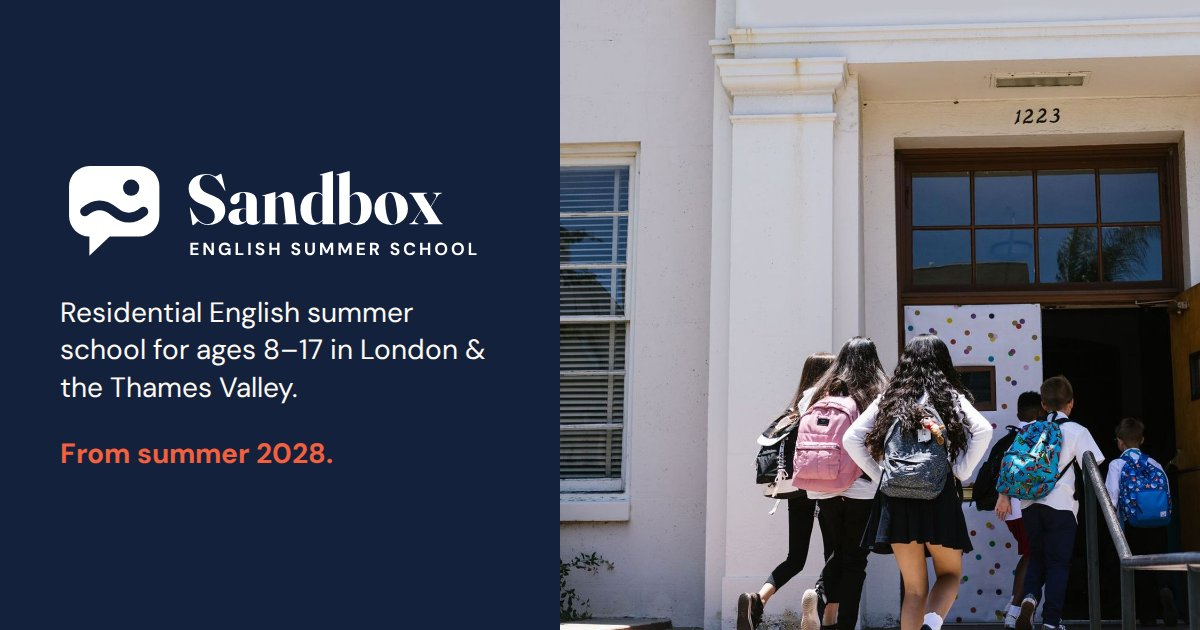
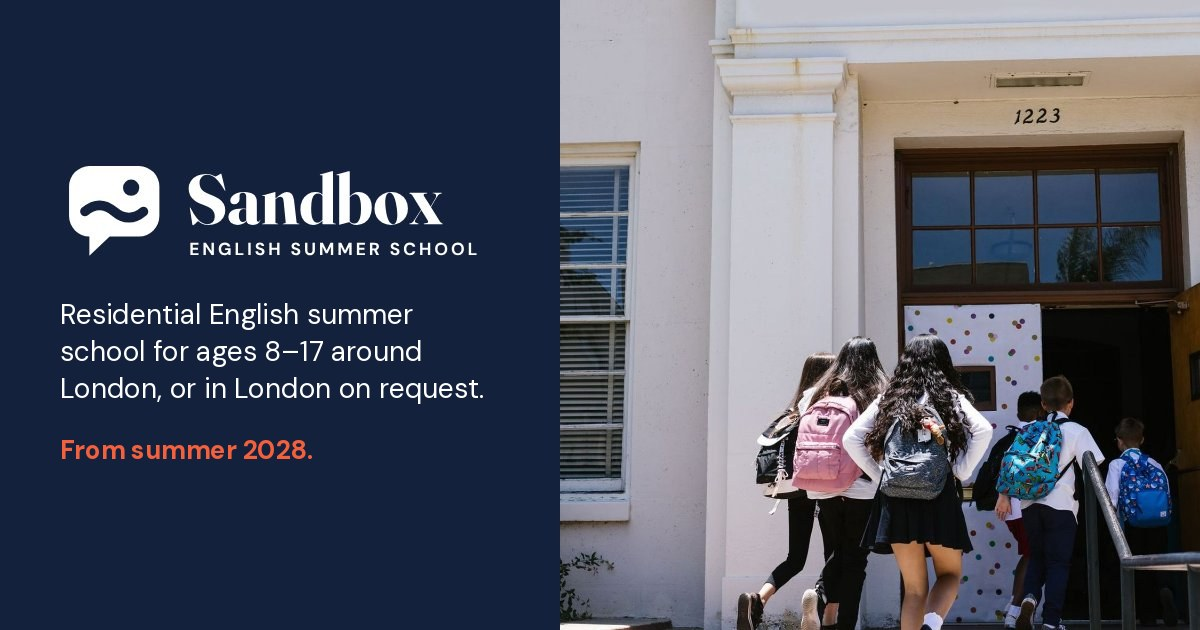
Offer the area around London, with London on request
Replace "Thames Valley" with the area around London, and present London as
an option families and agents can ask for. Updates the Locations section,
FAQs, agents page, consultation form (?area=around-london|london), footer,
JSON-LD, share image and the countryside photo slug. Also tightens wording
after review: DSL sentence, 1:10 ratio phrasing on the agents page.

Claude-Session: https://claude.ai/code/session_019FbioZXc15nftcTHLLKFvK

Changed region(s): [[0.0308, 0.4825, 0.4008, 0.573], [0.0308, 0.6937, 0.2775, 0.754], [0.0308, 0.6032, 0.4008, 0.6333]]

diff --git a/index.html b/index.html
@@ -4,7 +4,7 @@
   <meta charset="utf-8">
   <meta name="viewport" content="width=device-width, initial-scale=1">
   <title>Residential English Summer School, Ages 8–17 | Sandbox English</title>
-  <meta name="description" content="Residential English summer school for ages 8–17 in London and the Thames Valley, from summer 2028. 15 hours of English and two tailored excursions a week.">
+  <meta name="description" content="Residential English summer school for ages 8–17 around London, or in London on request, from summer 2028. 15 hours of English and two tailored excursions a week.">
   <meta name="theme-color" content="#14213d">
   <link rel="canonical" href="https://sandboxenglish.co.uk/">
   <meta property="og:type" content="website">
@@ -12,7 +12,7 @@
   <meta property="og:locale" content="en_GB">
   <meta property="og:url" content="https://sandboxenglish.co.uk/">
   <meta property="og:title" content="Residential English Summer School, Ages 8–17 | Sandbox English">
-  <meta property="og:description" content="Residential English summer school for ages 8–17 in London and the Thames Valley, from summer 2028. 15 hours of English and two tailored excursions a week.">
+  <meta property="og:description" content="Residential English summer school for ages 8–17 around London, or in London on request, from summer 2028. 15 hours of English and two tailored excursions a week.">
   <meta property="og:image" content="https://sandboxenglish.co.uk/assets/img/share.jpg">
   <meta property="og:image:width" content="1200">
   <meta property="og:image:height" content="630">
@@ -22,7 +22,7 @@
   <link rel="preload" href="assets/fonts/fraunces-roman-latin.woff2" as="font" type="font/woff2" crossorigin>
   <link rel="stylesheet" href="assets/css/styles.css">
   <script src="assets/js/main.js" defer></script>
-  <script type="application/ld+json">{"@context": "https://schema.org", "@type": "EducationalOrganization", "name": "Sandbox English", "alternateName": "Sandbox English Summer School", "url": "https://sandboxenglish.co.uk/", "email": "hello@sandboxenglish.co.uk", "logo": "https://sandboxenglish.co.uk/assets/img/favicon.svg", "image": "https://sandboxenglish.co.uk/assets/img/share.jpg", "description": "Residential English summer school for ages 8–17 in London and the Thames Valley, from summer 2028.", "founder": {"@type": "Person", "name": "Alexander Burns"}, "sameAs": ["https://www.instagram.com/sandboxenglish", "https://www.facebook.com/sandboxenglish", "https://www.youtube.com/@sandboxenglish"]}</script>
+  <script type="application/ld+json">{"@context": "https://schema.org", "@type": "EducationalOrganization", "name": "Sandbox English", "alternateName": "Sandbox English Summer School", "url": "https://sandboxenglish.co.uk/", "email": "hello@sandboxenglish.co.uk", "logo": "https://sandboxenglish.co.uk/assets/img/favicon.svg", "image": "https://sandboxenglish.co.uk/assets/img/share.jpg", "description": "Residential English summer school for ages 8–17 around London, or in London on request, from summer 2028.", "founder": {"@type": "Person", "name": "Alexander Burns"}, "sameAs": ["https://www.instagram.com/sandboxenglish", "https://www.facebook.com/sandboxenglish", "https://www.youtube.com/@sandboxenglish"]}</script>
 </head>
 <body>
 <a class="skip-link" href="#main">Skip to content</a>
@@ -53,7 +53,7 @@
 <section class="hero">
   <div class="container hero-grid">
     <div>
-      <p class="eyebrow">English Summer School · London &amp; Thames Valley · Ages 8–17</p>
+      <p class="eyebrow">English Summer School · Around London · Ages 8–17</p>
       <h1>Summer, <em>spoken</em> fluently.</h1>
       <p class="lead">Sandbox English Summer School opens in summer 2028. We offer young people aged 8–17 a residential English programme with focused lessons, attentive care and memorable excursions, at a reasonable price.</p>
       <div class="btn-row">
@@ -299,35 +299,35 @@
   <div class="container">
     <div class="section-head reveal">
       <p class="eyebrow">Locations</p>
-      <h2>London and the Thames Valley</h2>
-      <p class="lead">We are choosing residential venues in London and the Thames Valley for summer 2028, and will confirm them ahead of the first summer. Both regions put some of the UK's best-known sights within easy reach.</p>
+      <h2>Around London or in London: you choose</h2>
+      <p class="lead">Choose the area around London, with its countryside, historic towns and the capital's best-known sights within reach, or ask for a location in London itself. Tell us what suits your students at your consultation and we will plan the summer around it.</p>
     </div>
     <div class="grid grid-2">
+      <a class="card card--hover campus-card reveal" href="consultation.html?area=around-london">
+        <div class="campus-card__art"><figure class="photo photo--wide"><img src="assets/img/photos/location-grounds.jpg" srcset="assets/img/photos/location-grounds-800.jpg 800w, assets/img/photos/location-grounds.jpg 1600w" sizes="(min-width: 900px) 50vw, 100vw" width="1600" height="1000" alt="A large tree on a sunny green lawn" loading="lazy" decoding="async"></figure></div>
+        <div class="campus-card__body">
+          <span class="tag tag--sea">Around London</span>
+          <h3>The area around London</h3>
+          <p class="muted">Green countryside and historic towns, with London's landmarks within reach for excursions.</p>
+          <span class="link-arrow">Ask about the area around London <svg viewBox="0 0 24 24" fill="none" stroke="currentColor" stroke-width="2" stroke-linecap="round" stroke-linejoin="round" aria-hidden="true"><path d="M5 12h14M13 6l6 6-6 6"/></svg></span>
+        </div>
+      </a>
       <a class="card card--hover campus-card reveal" href="consultation.html?area=london">
         <div class="campus-card__art"><figure class="photo photo--wide"><img src="assets/img/photos/location-campus.jpg" srcset="assets/img/photos/location-campus-800.jpg 800w, assets/img/photos/location-campus.jpg 1600w" sizes="(min-width: 900px) 50vw, 100vw" width="1600" height="1000" alt="A modern glass building among trees" loading="lazy" decoding="async"></figure></div>
         <div class="campus-card__body">
-          <span class="tag tag--sky">London</span>
+          <span class="tag tag--sky">On request</span>
           <h3>London</h3>
-          <p class="muted">The UK's capital, home to world-famous landmarks, museums, parks and theatres.</p>
+          <p class="muted">Prefer the capital? Ask for a location in London, home to world-famous landmarks, museums, parks and theatres.</p>
           <span class="link-arrow">Ask about London <svg viewBox="0 0 24 24" fill="none" stroke="currentColor" stroke-width="2" stroke-linecap="round" stroke-linejoin="round" aria-hidden="true"><path d="M5 12h14M13 6l6 6-6 6"/></svg></span>
-        </div>
-      </a>
-      <a class="card card--hover campus-card reveal" href="consultation.html?area=thames-valley">
-        <div class="campus-card__art"><figure class="photo photo--wide"><img src="assets/img/photos/location-grounds.jpg" srcset="assets/img/photos/location-grounds-800.jpg 800w, assets/img/photos/location-grounds.jpg 1600w" sizes="(min-width: 900px) 50vw, 100vw" width="1600" height="1000" alt="A large tree on a sunny green lawn" loading="lazy" decoding="async"></figure></div>
-        <div class="campus-card__body">
-          <span class="tag tag--sea">Thames Valley</span>
-          <h3>The Thames Valley</h3>
-          <p class="muted">Green countryside and historic riverside towns west of London, including Windsor, with Oxford close by.</p>
-          <span class="link-arrow">Ask about the Thames Valley <svg viewBox="0 0 24 24" fill="none" stroke="currentColor" stroke-width="2" stroke-linecap="round" stroke-linejoin="round" aria-hidden="true"><path d="M5 12h14M13 6l6 6-6 6"/></svg></span>
         </div>
       </a>
     </div>
     <div class="photo-grid photo-grid--3 reveal mt-lg">
-      <figure class="photo"><img src="assets/img/photos/location-london.jpg" srcset="assets/img/photos/location-london-800.jpg 800w, assets/img/photos/location-london.jpg 1500w" sizes="(min-width: 900px) 25vw, (min-width: 600px) 50vw, 100vw" width="1500" height="1125" alt="London and the River Thames from above, at dawn" loading="lazy" decoding="async"><figcaption>London</figcaption></figure>
-      <figure class="photo"><img src="assets/img/photos/location-thames-valley.jpg" srcset="assets/img/photos/location-thames-valley-800.jpg 800w, assets/img/photos/location-thames-valley.jpg 1600w" sizes="(min-width: 900px) 25vw, (min-width: 600px) 50vw, 100vw" width="1600" height="1200" alt="A riverside meadow under a summer sky" loading="lazy" decoding="async"><figcaption>Thames Valley countryside</figcaption></figure>
+      <figure class="photo"><img src="assets/img/photos/location-countryside.jpg" srcset="assets/img/photos/location-countryside-800.jpg 800w, assets/img/photos/location-countryside.jpg 1600w" sizes="(min-width: 900px) 25vw, (min-width: 600px) 50vw, 100vw" width="1600" height="1200" alt="A riverside meadow under a summer sky" loading="lazy" decoding="async"><figcaption>Countryside</figcaption></figure>
       <figure class="photo"><img src="assets/img/photos/location-windsor.jpg" srcset="assets/img/photos/location-windsor-800.jpg 800w, assets/img/photos/location-windsor.jpg 1600w" sizes="(min-width: 900px) 25vw, (min-width: 600px) 50vw, 100vw" width="1600" height="1200" alt="The Round Tower at Windsor Castle" loading="lazy" decoding="async"><figcaption>Windsor</figcaption></figure>
+      <figure class="photo"><img src="assets/img/photos/location-london.jpg" srcset="assets/img/photos/location-london-800.jpg 800w, assets/img/photos/location-london.jpg 1500w" sizes="(min-width: 900px) 25vw, (min-width: 600px) 50vw, 100vw" width="1500" height="1125" alt="London and the River Thames from above, at dawn" loading="lazy" decoding="async"><figcaption>London</figcaption></figure>
     </div>
-    <p class="mt-lg muted">We will only choose venues with secure residential accommodation, proper classrooms and space for sport and activities. Airport meet-and-greet and transfers can be arranged.</p>
+    <p class="mt-lg muted">Wherever you choose, we will only use venues with secure residential accommodation, proper classrooms and space for sport and activities. Airport meet-and-greet and transfers can be arranged.</p>
   </div>
 </section>
 
@@ -339,7 +339,7 @@
       <p class="lead">Alexander has spent several summers delivering English summer programmes, with one aim: to make each one as enjoyable and rewarding as possible for every student.</p>
       <p>He founded Sandbox English to offer a better experience at a reasonable price: small classes, engaging activities, great excursions and attentive care. As a small, founder-led school, we avoid the overheads of a large organisation and put our resources where students notice them.</p>
       <p>Parents, agents and group leaders deal with Alexander directly, from the first consultation to the final day of the course.</p>
-      <p class="mb-0">Alexander is also our Designated Safeguarding Lead, so the person you speak to at your consultation is the person responsible for your child's welfare.</p>
+      <p class="mb-0">Alexander is also our Designated Safeguarding Lead, so the person you speak to at your consultation is the person who leads safeguarding across the school.</p>
     </div>
     <div class="founder-card reveal">
       <figure class="photo photo--portrait photo--monogram"><span class="monogram" aria-hidden="true">AB</span><figcaption><strong>Alexander Burns</strong> Founder and Designated Safeguarding Lead</figcaption></figure>
@@ -388,7 +388,7 @@
       </details>
       <details>
         <summary>Where will the course take place?</summary>
-        <div class="faq-body"><p>At residential venues in London and the Thames Valley. We will confirm venues ahead of summer 2028.</p></div>
+        <div class="faq-body"><p>In the area around London, or in London itself on request. Tell us your preference at your consultation, and we will confirm your venue ahead of summer 2028.</p></div>
       </details>
       <details>
         <summary>Can you arrange airport transfers?</summary>
@@ -426,7 +426,7 @@
           <svg class="brand-mark" viewBox="0 0 48 48" aria-hidden="true"><path fill="#14213d" d="M13 4h22a9 9 0 0 1 9 9v13a9 9 0 0 1-9 9H22l-9 8.5V35a9 9 0 0 1-9-9V13a9 9 0 0 1 9-9z"/><path fill="none" stroke="#f2603d" stroke-width="4.2" stroke-linecap="round" d="M11 24c4.3-3.6 8.7-3.6 13 0s8.7 3.6 13 0"/><circle cx="31.5" cy="13.5" r="3.6" fill="#f2603d"/></svg>
       <span class="brand-name">Sandbox<small>English Summer School</small></span>
         </a>
-        <p class="footer-note">A residential English summer school for young people aged 8–17 in London and the Thames Valley. Launching summer 2028.</p>
+        <p class="footer-note">A residential English summer school around London (or in London on request) for young people aged 8–17. Launching summer 2028.</p>
         <p class="footer-note"><a href="mailto:hello@sandboxenglish.co.uk">hello@sandboxenglish.co.uk</a><br>@sandboxenglish</p>
         <div class="socials">
           <a href="https://www.instagram.com/sandboxenglish" rel="noopener" aria-label="Sandbox English on Instagram"><svg viewBox="0 0 24 24" fill="none" stroke="currentColor" stroke-width="2" stroke-linecap="round" stroke-linejoin="round" aria-hidden="true"><rect x="2" y="2" width="20" height="20" rx="5"/><circle cx="12" cy="12" r="4"/><path d="M17.5 6.5h.01"/></svg></a><a href="https://www.facebook.com/sandboxenglish" rel="noopener" aria-label="Sandbox English on Facebook"><svg viewBox="0 0 24 24" fill="none" stroke="currentColor" stroke-width="2" stroke-linecap="round" stroke-linejoin="round" aria-hidden="true"><path d="M18 2h-3a5 5 0 0 0-5 5v3H7v4h3v8h4v-8h3l1-4h-4V7a1 1 0 0 1 1-1h3z"/></svg></a><a href="https://www.youtube.com/@sandboxenglish" rel="noopener" aria-label="Sandbox English on YouTube"><svg viewBox="0 0 24 24" fill="none" stroke="currentColor" stroke-width="2" stroke-linecap="round" stroke-linejoin="round" aria-hidden="true"><path d="M2.5 17a24 24 0 0 1 0-10 2 2 0 0 1 1.4-1.4 49.6 49.6 0 0 1 16.2 0A2 2 0 0 1 21.5 7a24 24 0 0 1 0 10 2 2 0 0 1-1.4 1.4 49.6 49.6 0 0 1-16.2 0A2 2 0 0 1 2.5 17"/><path d="m10 15 5-3-5-3z"/></svg></a>

diff --git a/src/pages/index.html b/src/pages/index.html
@@ -1,10 +1,10 @@
 title: Residential English Summer School, Ages 8–17 | Sandbox English
-description: Residential English summer school for ages 8–17 in London and the Thames Valley, from summer 2028. 15 hours of English and two tailored excursions a week.
+description: Residential English summer school for ages 8–17 around London, or in London on request, from summer 2028. 15 hours of English and two tailored excursions a week.
 ---
 <section class="hero">
   <div class="container hero-grid">
     <div>
-      <p class="eyebrow">English Summer School · London &amp; Thames Valley · Ages 8–17</p>
+      <p class="eyebrow">English Summer School · Around London · Ages 8–17</p>
       <h1>Summer, <em>spoken</em> fluently.</h1>
       <p class="lead">Sandbox English Summer School opens in summer 2028. We offer young people aged 8–17 a residential English programme with focused lessons, attentive care and memorable excursions, at a reasonable price.</p>
       <div class="btn-row">
@@ -199,35 +199,35 @@ description: Residential English summer school for ages 8–17 in London and the
   <div class="container">
     <div class="section-head reveal">
       <p class="eyebrow">Locations</p>
-      <h2>London and the Thames Valley</h2>
-      <p class="lead">We are choosing residential venues in London and the Thames Valley for summer 2028, and will confirm them ahead of the first summer. Both regions put some of the UK's best-known sights within easy reach.</p>
+      <h2>Around London or in London: you choose</h2>
+      <p class="lead">Choose the area around London, with its countryside, historic towns and the capital's best-known sights within reach, or ask for a location in London itself. Tell us what suits your students at your consultation and we will plan the summer around it.</p>
     </div>
     <div class="grid grid-2">
+      <a class="card card--hover campus-card reveal" href="consultation.html?area=around-london">
+        <div class="campus-card__art">{{photo:location-grounds|A large tree on a sunny green lawn|wide}}</div>
+        <div class="campus-card__body">
+          <span class="tag tag--sea">Around London</span>
+          <h3>The area around London</h3>
+          <p class="muted">Green countryside and historic towns, with London's landmarks within reach for excursions.</p>
+          <span class="link-arrow">Ask about the area around London {{icon:arrow}}</span>
+        </div>
+      </a>
       <a class="card card--hover campus-card reveal" href="consultation.html?area=london">
         <div class="campus-card__art">{{photo:location-campus|A modern glass building among trees|wide}}</div>
         <div class="campus-card__body">
-          <span class="tag tag--sky">London</span>
+          <span class="tag tag--sky">On request</span>
           <h3>London</h3>
-          <p class="muted">The UK's capital, home to world-famous landmarks, museums, parks and theatres.</p>
+          <p class="muted">Prefer the capital? Ask for a location in London, home to world-famous landmarks, museums, parks and theatres.</p>
           <span class="link-arrow">Ask about London {{icon:arrow}}</span>
-        </div>
-      </a>
-      <a class="card card--hover campus-card reveal" href="consultation.html?area=thames-valley">
-        <div class="campus-card__art">{{photo:location-grounds|A large tree on a sunny green lawn|wide}}</div>
-        <div class="campus-card__body">
-          <span class="tag tag--sea">Thames Valley</span>
-          <h3>The Thames Valley</h3>
-          <p class="muted">Green countryside and historic riverside towns west of London, including Windsor, with Oxford close by.</p>
-          <span class="link-arrow">Ask about the Thames Valley {{icon:arrow}}</span>
         </div>
       </a>
     </div>
     <div class="photo-grid photo-grid--3 reveal mt-lg">
-      {{photo:location-london|London and the River Thames from above, at dawn||London}}
-      {{photo:location-thames-valley|A riverside meadow under a summer sky||Thames Valley countryside}}
+      {{photo:location-countryside|A riverside meadow under a summer sky||Countryside}}
       {{photo:location-windsor|The Round Tower at Windsor Castle||Windsor}}
+      {{photo:location-london|London and the River Thames from above, at dawn||London}}
     </div>
-    <p class="mt-lg muted">We will only choose venues with secure residential accommodation, proper classrooms and space for sport and activities. Airport meet-and-greet and transfers can be arranged.</p>
+    <p class="mt-lg muted">Wherever you choose, we will only use venues with secure residential accommodation, proper classrooms and space for sport and activities. Airport meet-and-greet and transfers can be arranged.</p>
   </div>
 </section>
 
@@ -239,7 +239,7 @@ description: Residential English summer school for ages 8–17 in London and the
       <p class="lead">Alexander has spent several summers delivering English summer programmes, with one aim: to make each one as enjoyable and rewarding as possible for every student.</p>
       <p>He founded Sandbox English to offer a better experience at a reasonable price: small classes, engaging activities, great excursions and attentive care. As a small, founder-led school, we avoid the overheads of a large organisation and put our resources where students notice them.</p>
       <p>Parents, agents and group leaders deal with Alexander directly, from the first consultation to the final day of the course.</p>
-      <p class="mb-0">Alexander is also our Designated Safeguarding Lead, so the person you speak to at your consultation is the person responsible for your child's welfare.</p>
+      <p class="mb-0">Alexander is also our Designated Safeguarding Lead, so the person you speak to at your consultation is the person who leads safeguarding across the school.</p>
     </div>
     <div class="founder-card reveal">
       {{founder}}
@@ -288,7 +288,7 @@ description: Residential English summer school for ages 8–17 in London and the
       </details>
       <details>
         <summary>Where will the course take place?</summary>
-        <div class="faq-body"><p>At residential venues in London and the Thames Valley. We will confirm venues ahead of summer 2028.</p></div>
+        <div class="faq-body"><p>In the area around London, or in London itself on request. Tell us your preference at your consultation, and we will confirm your venue ahead of summer 2028.</p></div>
       </details>
       <details>
         <summary>Can you arrange airport transfers?</summary>

diff --git a/credits.html b/credits.html
@@ -75,9 +75,9 @@
           <tr><td><img class="credit-thumb" src="assets/img/photos/hero-students-800.jpg" alt="" loading="lazy" width="120" height="80"></td><th scope="row">Students of different ages walking into school, seen from behind</th><td>Pexels contributor</td><td><a href="https://www.pexels.com/license/" rel="noopener">Pexels License</a></td><td><a href="https://www.pexels.com/photo/8500421/" rel="noopener">Source</a></td></tr>
           <tr><td><img class="credit-thumb" src="assets/img/photos/lessons-800.jpg" alt="" loading="lazy" width="120" height="80"></td><th scope="row">Students seated at desks in a classroom</th><td>Pexels contributor</td><td><a href="https://www.pexels.com/license/" rel="noopener">Pexels License</a></td><td><a href="https://www.pexels.com/photo/7395893/" rel="noopener">Source</a></td></tr>
           <tr><td><img class="credit-thumb" src="assets/img/photos/location-campus-800.jpg" alt="" loading="lazy" width="120" height="80"></td><th scope="row">A modern glass building among trees</th><td>Pexels contributor</td><td><a href="https://www.pexels.com/license/" rel="noopener">Pexels License</a></td><td><a href="https://www.pexels.com/photo/129667/" rel="noopener">Source</a></td></tr>
+          <tr><td><img class="credit-thumb" src="assets/img/photos/location-countryside-800.jpg" alt="" loading="lazy" width="120" height="80"></td><th scope="row">A riverside meadow under a summer sky</th><td>Pexels contributor</td><td><a href="https://www.pexels.com/license/" rel="noopener">Pexels License</a></td><td><a href="https://www.pexels.com/photo/12173389/" rel="noopener">Source</a></td></tr>
           <tr><td><img class="credit-thumb" src="assets/img/photos/location-grounds-800.jpg" alt="" loading="lazy" width="120" height="80"></td><th scope="row">A large tree on a sunny green lawn</th><td>Pexels contributor</td><td><a href="https://www.pexels.com/license/" rel="noopener">Pexels License</a></td><td><a href="https://www.pexels.com/photo/18010149/" rel="noopener">Source</a></td></tr>
           <tr><td><img class="credit-thumb" src="assets/img/photos/location-london-800.jpg" alt="" loading="lazy" width="120" height="80"></td><th scope="row">London and the River Thames from above, at dawn</th><td>Pexels contributor</td><td><a href="https://www.pexels.com/license/" rel="noopener">Pexels License</a></td><td><a href="https://www.pexels.com/photo/50631/" rel="noopener">Source</a></td></tr>
-          <tr><td><img class="credit-thumb" src="assets/img/photos/location-thames-valley-800.jpg" alt="" loading="lazy" width="120" height="80"></td><th scope="row">A riverside meadow under a summer sky</th><td>Pexels contributor</td><td><a href="https://www.pexels.com/license/" rel="noopener">Pexels License</a></td><td><a href="https://www.pexels.com/photo/12173389/" rel="noopener">Source</a></td></tr>
           <tr><td><img class="credit-thumb" src="assets/img/photos/location-windsor-800.jpg" alt="" loading="lazy" width="120" height="80"></td><th scope="row">The Round Tower at Windsor Castle</th><td>Pexels contributor</td><td><a href="https://www.pexels.com/license/" rel="noopener">Pexels License</a></td><td><a href="https://www.pexels.com/photo/29440881/" rel="noopener">Source</a></td></tr>
           <tr><td><img class="credit-thumb" src="assets/img/photos/students-corridor-800.jpg" alt="" loading="lazy" width="120" height="80"></td><th scope="row">Students with backpacks walking along a school corridor</th><td>Pexels contributor</td><td><a href="https://www.pexels.com/license/" rel="noopener">Pexels License</a></td><td><a href="https://www.pexels.com/photo/8456146/" rel="noopener">Source</a></td></tr>
           <tr><td><img class="credit-thumb" src="assets/img/photos/students-park-800.jpg" alt="" loading="lazy" width="120" height="80"></td><th scope="row">Children running across a park with balloons</th><td>Pexels contributor</td><td><a href="https://www.pexels.com/license/" rel="noopener">Pexels License</a></td><td><a href="https://www.pexels.com/photo/6299265/" rel="noopener">Source</a></td></tr>
@@ -102,7 +102,7 @@
           <svg class="brand-mark" viewBox="0 0 48 48" aria-hidden="true"><path fill="#14213d" d="M13 4h22a9 9 0 0 1 9 9v13a9 9 0 0 1-9 9H22l-9 8.5V35a9 9 0 0 1-9-9V13a9 9 0 0 1 9-9z"/><path fill="none" stroke="#f2603d" stroke-width="4.2" stroke-linecap="round" d="M11 24c4.3-3.6 8.7-3.6 13 0s8.7 3.6 13 0"/><circle cx="31.5" cy="13.5" r="3.6" fill="#f2603d"/></svg>
       <span class="brand-name">Sandbox<small>English Summer School</small></span>
         </a>
-        <p class="footer-note">A residential English summer school for young people aged 8–17 in London and the Thames Valley. Launching summer 2028.</p>
+        <p class="footer-note">A residential English summer school around London (or in London on request) for young people aged 8–17. Launching summer 2028.</p>
         <p class="footer-note"><a href="mailto:hello@sandboxenglish.co.uk">hello@sandboxenglish.co.uk</a><br>@sandboxenglish</p>
         <div class="socials">
           <a href="https://www.instagram.com/sandboxenglish" rel="noopener" aria-label="Sandbox English on Instagram"><svg viewBox="0 0 24 24" fill="none" stroke="currentColor" stroke-width="2" stroke-linecap="round" stroke-linejoin="round" aria-hidden="true"><rect x="2" y="2" width="20" height="20" rx="5"/><circle cx="12" cy="12" r="4"/><path d="M17.5 6.5h.01"/></svg></a><a href="https://www.facebook.com/sandboxenglish" rel="noopener" aria-label="Sandbox English on Facebook"><svg viewBox="0 0 24 24" fill="none" stroke="currentColor" stroke-width="2" stroke-linecap="round" stroke-linejoin="round" aria-hidden="true"><path d="M18 2h-3a5 5 0 0 0-5 5v3H7v4h3v8h4v-8h3l1-4h-4V7a1 1 0 0 1 1-1h3z"/></svg></a><a href="https://www.youtube.com/@sandboxenglish" rel="noopener" aria-label="Sandbox English on YouTube"><svg viewBox="0 0 24 24" fill="none" stroke="currentColor" stroke-width="2" stroke-linecap="round" stroke-linejoin="round" aria-hidden="true"><path d="M2.5 17a24 24 0 0 1 0-10 2 2 0 0 1 1.4-1.4 49.6 49.6 0 0 1 16.2 0A2 2 0 0 1 21.5 7a24 24 0 0 1 0 10 2 2 0 0 1-1.4 1.4 49.6 49.6 0 0 1-16.2 0A2 2 0 0 1 2.5 17"/><path d="m10 15 5-3-5-3z"/></svg></a>

diff --git a/agents.html b/agents.html
@@ -85,7 +85,8 @@
         <li>Tailored proposals and clear, written quotes</li>
         <li>Excursions and activities shaped around your families' wishes</li>
         <li>Stays of one to six weeks, for students aged 8–17</li>
-        <li>A staff-to-student ratio of at least 1:10</li>
+        <li>A location around London, or in London on request</li>
+        <li>At least one member of staff for every 10 students</li>
       </ul>
       <h3>How partnership works</h3>
       <p>Commission, agent terms, booking deadlines and payment schedules are agreed with each partner during a consultation. We will confirm everything in writing before you promote the programme.</p>
@@ -201,8 +202,8 @@
         <div class="faq-body"><p>There are two excursions a week. We plan them with you from a wide range of destinations, such as a London walking tour, Oxford, Cambridge, the Harry Potter Studio Tour and Madame Tussauds. Every trip includes free time and a packed lunch.</p></div>
       </details>
       <details>
-        <summary>When will venues be confirmed?</summary>
-        <div class="faq-body"><p>Venues in London and the Thames Valley will be confirmed ahead of summer 2028. Partners will hear first.</p></div>
+        <summary>Where will the course take place?</summary>
+        <div class="faq-body"><p>In the area around London, or in London on request, so you can choose what suits your students. We will confirm your venue ahead of summer 2028, and partners will hear first.</p></div>
       </details>
     </div>
   </div>
@@ -232,7 +233,7 @@
           <svg class="brand-mark" viewBox="0 0 48 48" aria-hidden="true"><path fill="#14213d" d="M13 4h22a9 9 0 0 1 9 9v13a9 9 0 0 1-9 9H22l-9 8.5V35a9 9 0 0 1-9-9V13a9 9 0 0 1 9-9z"/><path fill="none" stroke="#f2603d" stroke-width="4.2" stroke-linecap="round" d="M11 24c4.3-3.6 8.7-3.6 13 0s8.7 3.6 13 0"/><circle cx="31.5" cy="13.5" r="3.6" fill="#f2603d"/></svg>
       <span class="brand-name">Sandbox<small>English Summer School</small></span>
         </a>
-        <p class="footer-note">A residential English summer school for young people aged 8–17 in London and the Thames Valley. Launching summer 2028.</p>
+        <p class="footer-note">A residential English summer school around London (or in London on request) for young people aged 8–17. Launching summer 2028.</p>
         <p class="footer-note"><a href="mailto:hello@sandboxenglish.co.uk">hello@sandboxenglish.co.uk</a><br>@sandboxenglish</p>
         <div class="socials">
           <a href="https://www.instagram.com/sandboxenglish" rel="noopener" aria-label="Sandbox English on Instagram"><svg viewBox="0 0 24 24" fill="none" stroke="currentColor" stroke-width="2" stroke-linecap="round" stroke-linejoin="round" aria-hidden="true"><rect x="2" y="2" width="20" height="20" rx="5"/><circle cx="12" cy="12" r="4"/><path d="M17.5 6.5h.01"/></svg></a><a href="https://www.facebook.com/sandboxenglish" rel="noopener" aria-label="Sandbox English on Facebook"><svg viewBox="0 0 24 24" fill="none" stroke="currentColor" stroke-width="2" stroke-linecap="round" stroke-linejoin="round" aria-hidden="true"><path d="M18 2h-3a5 5 0 0 0-5 5v3H7v4h3v8h4v-8h3l1-4h-4V7a1 1 0 0 1 1-1h3z"/></svg></a><a href="https://www.youtube.com/@sandboxenglish" rel="noopener" aria-label="Sandbox English on YouTube"><svg viewBox="0 0 24 24" fill="none" stroke="currentColor" stroke-width="2" stroke-linecap="round" stroke-linejoin="round" aria-hidden="true"><path d="M2.5 17a24 24 0 0 1 0-10 2 2 0 0 1 1.4-1.4 49.6 49.6 0 0 1 16.2 0A2 2 0 0 1 21.5 7a24 24 0 0 1 0 10 2 2 0 0 1-1.4 1.4 49.6 49.6 0 0 1-16.2 0A2 2 0 0 1 2.5 17"/><path d="m10 15 5-3-5-3z"/></svg></a>

diff --git a/consultation.html b/consultation.html
@@ -158,8 +158,8 @@
               <label for="area">Preferred area</label>
               <select id="area" name="area">
                 <option value="">No preference</option>
-                <option value="london">London</option>
-                <option value="thames-valley">Thames Valley</option>
+                <option value="around-london">Around London</option>
+                <option value="london">In London</option>
               </select>
             </div>
             <div class="field">
@@ -234,7 +234,7 @@
           <svg class="brand-mark" viewBox="0 0 48 48" aria-hidden="true"><path fill="#14213d" d="M13 4h22a9 9 0 0 1 9 9v13a9 9 0 0 1-9 9H22l-9 8.5V35a9 9 0 0 1-9-9V13a9 9 0 0 1 9-9z"/><path fill="none" stroke="#f2603d" stroke-width="4.2" stroke-linecap="round" d="M11 24c4.3-3.6 8.7-3.6 13 0s8.7 3.6 13 0"/><circle cx="31.5" cy="13.5" r="3.6" fill="#f2603d"/></svg>
       <span class="brand-name">Sandbox<small>English Summer School</small></span>
         </a>
-        <p class="footer-note">A residential English summer school for young people aged 8–17 in London and the Thames Valley. Launching summer 2028.</p>
+        <p class="footer-note">A residential English summer school around London (or in London on request) for young people aged 8–17. Launching summer 2028.</p>
         <p class="footer-note"><a href="mailto:hello@sandboxenglish.co.uk">hello@sandboxenglish.co.uk</a><br>@sandboxenglish</p>
         <div class="socials">
           <a href="https://www.instagram.com/sandboxenglish" rel="noopener" aria-label="Sandbox English on Instagram"><svg viewBox="0 0 24 24" fill="none" stroke="currentColor" stroke-width="2" stroke-linecap="round" stroke-linejoin="round" aria-hidden="true"><rect x="2" y="2" width="20" height="20" rx="5"/><circle cx="12" cy="12" r="4"/><path d="M17.5 6.5h.01"/></svg></a><a href="https://www.facebook.com/sandboxenglish" rel="noopener" aria-label="Sandbox English on Facebook"><svg viewBox="0 0 24 24" fill="none" stroke="currentColor" stroke-width="2" stroke-linecap="round" stroke-linejoin="round" aria-hidden="true"><path d="M18 2h-3a5 5 0 0 0-5 5v3H7v4h3v8h4v-8h3l1-4h-4V7a1 1 0 0 1 1-1h3z"/></svg></a><a href="https://www.youtube.com/@sandboxenglish" rel="noopener" aria-label="Sandbox English on YouTube"><svg viewBox="0 0 24 24" fill="none" stroke="currentColor" stroke-width="2" stroke-linecap="round" stroke-linejoin="round" aria-hidden="true"><path d="M2.5 17a24 24 0 0 1 0-10 2 2 0 0 1 1.4-1.4 49.6 49.6 0 0 1 16.2 0A2 2 0 0 1 21.5 7a24 24 0 0 1 0 10 2 2 0 0 1-1.4 1.4 49.6 49.6 0 0 1-16.2 0A2 2 0 0 1 2.5 17"/><path d="m10 15 5-3-5-3z"/></svg></a>

diff --git a/privacy.html b/privacy.html
@@ -128,7 +128,7 @@
           <svg class="brand-mark" viewBox="0 0 48 48" aria-hidden="true"><path fill="#14213d" d="M13 4h22a9 9 0 0 1 9 9v13a9 9 0 0 1-9 9H22l-9 8.5V35a9 9 0 0 1-9-9V13a9 9 0 0 1 9-9z"/><path fill="none" stroke="#f2603d" stroke-width="4.2" stroke-linecap="round" d="M11 24c4.3-3.6 8.7-3.6 13 0s8.7 3.6 13 0"/><circle cx="31.5" cy="13.5" r="3.6" fill="#f2603d"/></svg>
       <span class="brand-name">Sandbox<small>English Summer School</small></span>
         </a>
-        <p class="footer-note">A residential English summer school for young people aged 8–17 in London and the Thames Valley. Launching summer 2028.</p>
+        <p class="footer-note">A residential English summer school around London (or in London on request) for young people aged 8–17. Launching summer 2028.</p>
         <p class="footer-note"><a href="mailto:hello@sandboxenglish.co.uk">hello@sandboxenglish.co.uk</a><br>@sandboxenglish</p>
         <div class="socials">
           <a href="https://www.instagram.com/sandboxenglish" rel="noopener" aria-label="Sandbox English on Instagram"><svg viewBox="0 0 24 24" fill="none" stroke="currentColor" stroke-width="2" stroke-linecap="round" stroke-linejoin="round" aria-hidden="true"><rect x="2" y="2" width="20" height="20" rx="5"/><circle cx="12" cy="12" r="4"/><path d="M17.5 6.5h.01"/></svg></a><a href="https://www.facebook.com/sandboxenglish" rel="noopener" aria-label="Sandbox English on Facebook"><svg viewBox="0 0 24 24" fill="none" stroke="currentColor" stroke-width="2" stroke-linecap="round" stroke-linejoin="round" aria-hidden="true"><path d="M18 2h-3a5 5 0 0 0-5 5v3H7v4h3v8h4v-8h3l1-4h-4V7a1 1 0 0 1 1-1h3z"/></svg></a><a href="https://www.youtube.com/@sandboxenglish" rel="noopener" aria-label="Sandbox English on YouTube"><svg viewBox="0 0 24 24" fill="none" stroke="currentColor" stroke-width="2" stroke-linecap="round" stroke-linejoin="round" aria-hidden="true"><path d="M2.5 17a24 24 0 0 1 0-10 2 2 0 0 1 1.4-1.4 49.6 49.6 0 0 1 16.2 0A2 2 0 0 1 21.5 7a24 24 0 0 1 0 10 2 2 0 0 1-1.4 1.4 49.6 49.6 0 0 1-16.2 0A2 2 0 0 1 2.5 17"/><path d="m10 15 5-3-5-3z"/></svg></a>

diff --git a/terms.html b/terms.html
@@ -101,7 +101,7 @@
           <svg class="brand-mark" viewBox="0 0 48 48" aria-hidden="true"><path fill="#14213d" d="M13 4h22a9 9 0 0 1 9 9v13a9 9 0 0 1-9 9H22l-9 8.5V35a9 9 0 0 1-9-9V13a9 9 0 0 1 9-9z"/><path fill="none" stroke="#f2603d" stroke-width="4.2" stroke-linecap="round" d="M11 24c4.3-3.6 8.7-3.6 13 0s8.7 3.6 13 0"/><circle cx="31.5" cy="13.5" r="3.6" fill="#f2603d"/></svg>
       <span class="brand-name">Sandbox<small>English Summer School</small></span>
         </a>
-        <p class="footer-note">A residential English summer school for young people aged 8–17 in London and the Thames Valley. Launching summer 2028.</p>
+        <p class="footer-note">A residential English summer school around London (or in London on request) for young people aged 8–17. Launching summer 2028.</p>
         <p class="footer-note"><a href="mailto:hello@sandboxenglish.co.uk">hello@sandboxenglish.co.uk</a><br>@sandboxenglish</p>
         <div class="socials">
           <a href="https://www.instagram.com/sandboxenglish" rel="noopener" aria-label="Sandbox English on Instagram"><svg viewBox="0 0 24 24" fill="none" stroke="currentColor" stroke-width="2" stroke-linecap="round" stroke-linejoin="round" aria-hidden="true"><rect x="2" y="2" width="20" height="20" rx="5"/><circle cx="12" cy="12" r="4"/><path d="M17.5 6.5h.01"/></svg></a><a href="https://www.facebook.com/sandboxenglish" rel="noopener" aria-label="Sandbox English on Facebook"><svg viewBox="0 0 24 24" fill="none" stroke="currentColor" stroke-width="2" stroke-linecap="round" stroke-linejoin="round" aria-hidden="true"><path d="M18 2h-3a5 5 0 0 0-5 5v3H7v4h3v8h4v-8h3l1-4h-4V7a1 1 0 0 1 1-1h3z"/></svg></a><a href="https://www.youtube.com/@sandboxenglish" rel="noopener" aria-label="Sandbox English on YouTube"><svg viewBox="0 0 24 24" fill="none" stroke="currentColor" stroke-width="2" stroke-linecap="round" stroke-linejoin="round" aria-hidden="true"><path d="M2.5 17a24 24 0 0 1 0-10 2 2 0 0 1 1.4-1.4 49.6 49.6 0 0 1 16.2 0A2 2 0 0 1 21.5 7a24 24 0 0 1 0 10 2 2 0 0 1-1.4 1.4 49.6 49.6 0 0 1-16.2 0A2 2 0 0 1 2.5 17"/><path d="m10 15 5-3-5-3z"/></svg></a>

diff --git a/404.html b/404.html
@@ -71,7 +71,7 @@
           <svg class="brand-mark" viewBox="0 0 48 48" aria-hidden="true"><path fill="#14213d" d="M13 4h22a9 9 0 0 1 9 9v13a9 9 0 0 1-9 9H22l-9 8.5V35a9 9 0 0 1-9-9V13a9 9 0 0 1 9-9z"/><path fill="none" stroke="#f2603d" stroke-width="4.2" stroke-linecap="round" d="M11 24c4.3-3.6 8.7-3.6 13 0s8.7 3.6 13 0"/><circle cx="31.5" cy="13.5" r="3.6" fill="#f2603d"/></svg>
       <span class="brand-name">Sandbox<small>English Summer School</small></span>
         </a>
-        <p class="footer-note">A residential English summer school for young people aged 8–17 in London and the Thames Valley. Launching summer 2028.</p>
+        <p class="footer-note">A residential English summer school around London (or in London on request) for young people aged 8–17. Launching summer 2028.</p>
         <p class="footer-note"><a href="mailto:hello@sandboxenglish.co.uk">hello@sandboxenglish.co.uk</a><br>@sandboxenglish</p>
         <div class="socials">
           <a href="https://www.instagram.com/sandboxenglish" rel="noopener" aria-label="Sandbox English on Instagram"><svg viewBox="0 0 24 24" fill="none" stroke="currentColor" stroke-width="2" stroke-linecap="round" stroke-linejoin="round" aria-hidden="true"><rect x="2" y="2" width="20" height="20" rx="5"/><circle cx="12" cy="12" r="4"/><path d="M17.5 6.5h.01"/></svg></a><a href="https://www.facebook.com/sandboxenglish" rel="noopener" aria-label="Sandbox English on Facebook"><svg viewBox="0 0 24 24" fill="none" stroke="currentColor" stroke-width="2" stroke-linecap="round" stroke-linejoin="round" aria-hidden="true"><path d="M18 2h-3a5 5 0 0 0-5 5v3H7v4h3v8h4v-8h3l1-4h-4V7a1 1 0 0 1 1-1h3z"/></svg></a><a href="https://www.youtube.com/@sandboxenglish" rel="noopener" aria-label="Sandbox English on YouTube"><svg viewBox="0 0 24 24" fill="none" stroke="currentColor" stroke-width="2" stroke-linecap="round" stroke-linejoin="round" aria-hidden="true"><path d="M2.5 17a24 24 0 0 1 0-10 2 2 0 0 1 1.4-1.4 49.6 49.6 0 0 1 16.2 0A2 2 0 0 1 21.5 7a24 24 0 0 1 0 10 2 2 0 0 1-1.4 1.4 49.6 49.6 0 0 1-16.2 0A2 2 0 0 1 2.5 17"/><path d="m10 15 5-3-5-3z"/></svg></a>

diff --git a/cookies.html b/cookies.html
@@ -94,7 +94,7 @@
           <svg class="brand-mark" viewBox="0 0 48 48" aria-hidden="true"><path fill="#14213d" d="M13 4h22a9 9 0 0 1 9 9v13a9 9 0 0 1-9 9H22l-9 8.5V35a9 9 0 0 1-9-9V13a9 9 0 0 1 9-9z"/><path fill="none" stroke="#f2603d" stroke-width="4.2" stroke-linecap="round" d="M11 24c4.3-3.6 8.7-3.6 13 0s8.7 3.6 13 0"/><circle cx="31.5" cy="13.5" r="3.6" fill="#f2603d"/></svg>
       <span class="brand-name">Sandbox<small>English Summer School</small></span>
         </a>
-        <p class="footer-note">A residential English summer school for young people aged 8–17 in London and the Thames Valley. Launching summer 2028.</p>
+        <p class="footer-note">A residential English summer school around London (or in London on request) for young people aged 8–17. Launching summer 2028.</p>
         <p class="footer-note"><a href="mailto:hello@sandboxenglish.co.uk">hello@sandboxenglish.co.uk</a><br>@sandboxenglish</p>
         <div class="socials">
           <a href="https://www.instagram.com/sandboxenglish" rel="noopener" aria-label="Sandbox English on Instagram"><svg viewBox="0 0 24 24" fill="none" stroke="currentColor" stroke-width="2" stroke-linecap="round" stroke-linejoin="round" aria-hidden="true"><rect x="2" y="2" width="20" height="20" rx="5"/><circle cx="12" cy="12" r="4"/><path d="M17.5 6.5h.01"/></svg></a><a href="https://www.facebook.com/sandboxenglish" rel="noopener" aria-label="Sandbox English on Facebook"><svg viewBox="0 0 24 24" fill="none" stroke="currentColor" stroke-width="2" stroke-linecap="round" stroke-linejoin="round" aria-hidden="true"><path d="M18 2h-3a5 5 0 0 0-5 5v3H7v4h3v8h4v-8h3l1-4h-4V7a1 1 0 0 1 1-1h3z"/></svg></a><a href="https://www.youtube.com/@sandboxenglish" rel="noopener" aria-label="Sandbox English on YouTube"><svg viewBox="0 0 24 24" fill="none" stroke="currentColor" stroke-width="2" stroke-linecap="round" stroke-linejoin="round" aria-hidden="true"><path d="M2.5 17a24 24 0 0 1 0-10 2 2 0 0 1 1.4-1.4 49.6 49.6 0 0 1 16.2 0A2 2 0 0 1 21.5 7a24 24 0 0 1 0 10 2 2 0 0 1-1.4 1.4 49.6 49.6 0 0 1-16.2 0A2 2 0 0 1 2.5 17"/><path d="m10 15 5-3-5-3z"/></svg></a>

diff --git a/src/pages/agents.html b/src/pages/agents.html
@@ -37,7 +37,8 @@ description: Partner with Sandbox English Summer School for summer 2028. A flexi
         <li>Tailored proposals and clear, written quotes</li>
         <li>Excursions and activities shaped around your families' wishes</li>
         <li>Stays of one to six weeks, for students aged 8–17</li>
-        <li>A staff-to-student ratio of at least 1:10</li>
+        <li>A location around London, or in London on request</li>
+        <li>At least one member of staff for every 10 students</li>
       </ul>
       <h3>How partnership works</h3>
       <p>Commission, agent terms, booking deadlines and payment schedules are agreed with each partner during a consultation. We will confirm everything in writing before you promote the programme.</p>
@@ -102,8 +103,8 @@ description: Partner with Sandbox English Summer School for summer 2028. A flexi
         <div class="faq-body"><p>There are two excursions a week. We plan them with you from a wide range of destinations, such as a London walking tour, Oxford, Cambridge, the Harry Potter Studio Tour and Madame Tussauds. Every trip includes free time and a packed lunch.</p></div>
       </details>
       <details>
-        <summary>When will venues be confirmed?</summary>
-        <div class="faq-body"><p>Venues in London and the Thames Valley will be confirmed ahead of summer 2028. Partners will hear first.</p></div>
+        <summary>Where will the course take place?</summary>
+        <div class="faq-body"><p>In the area around London, or in London on request, so you can choose what suits your students. We will confirm your venue ahead of summer 2028, and partners will hear first.</p></div>
       </details>
     </div>
   </div>

diff --git a/src/pages/consultation.html b/src/pages/consultation.html
@@ -110,8 +110,8 @@ description: Book a free, no-obligation consultation with Sandbox English Summer
               <label for="area">Preferred area</label>
               <select id="area" name="area">
                 <option value="">No preference</option>
-                <option value="london">London</option>
-                <option value="thames-valley">Thames Valley</option>
+                <option value="around-london">Around London</option>
+                <option value="london">In London</option>
               </select>
             </div>
             <div class="field">

diff --git a/src/build.py b/src/build.py
@@ -276,7 +276,7 @@ def footer():
         <a class="brand" href="index.html" aria-label="{SITE_NAME} home">
           {BRAND}
         </a>
-        <p class="footer-note">A residential English summer school for young people aged 8–17 in London and the Thames Valley. Launching summer 2028.</p>
+        <p class="footer-note">A residential English summer school around London (or in London on request) for young people aged 8–17. Launching summer 2028.</p>
         <p class="footer-note"><a href="mailto:{EMAIL}">{EMAIL}</a><br>@sandboxenglish</p>
         <div class="socials">
           {social}
@@ -337,7 +337,7 @@ STRUCTURED_DATA = {
     "email": EMAIL,
     "logo": SITE_URL + "/assets/img/favicon.svg",
     "image": SITE_URL + "/assets/img/share.jpg",
-    "description": "Residential English summer school for ages 8–17 in London and the Thames Valley, from summer 2028.",
+    "description": "Residential English summer school for ages 8–17 around London, or in London on request, from summer 2028.",
     "founder": {"@type": "Person", "name": "Alexander Burns"},
     "sameAs": [url for _, _, url in SOCIAL],
 }
